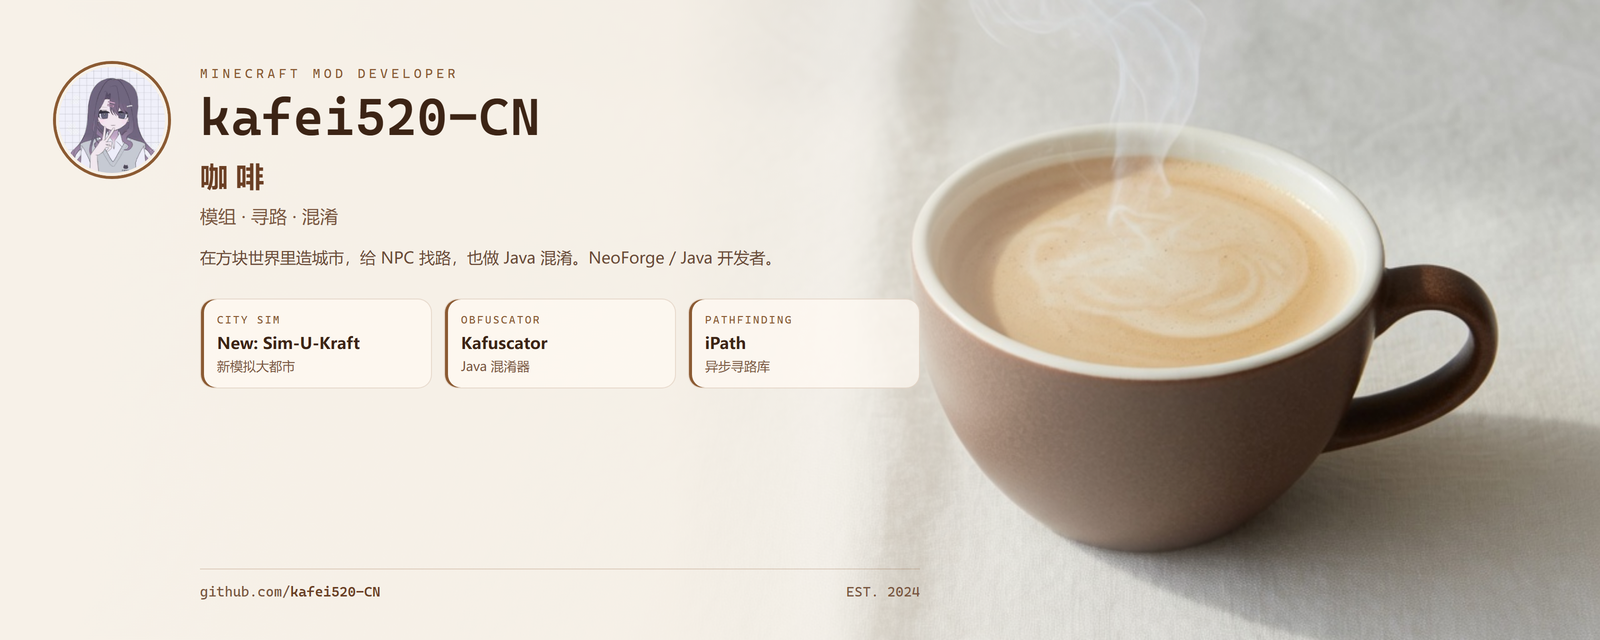
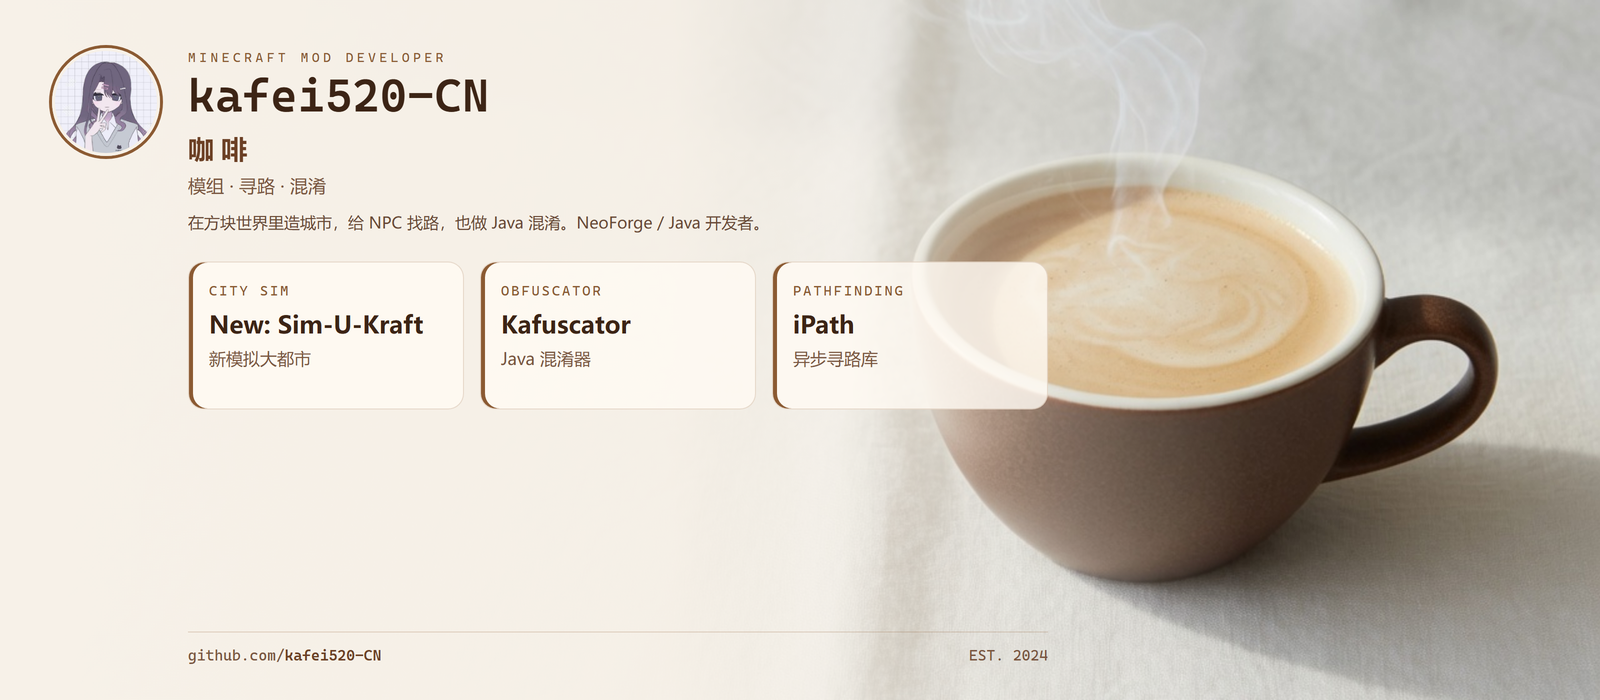
Add initial HTML structure for kafei520-CN profile card
- Create card.html with a responsive layout
- Include custom fonts and styles for a personalized design
- Add sections for avatar, title, role, and project highlights
- Implement background image and gradient overlay for visual appeal

diff --git a/card.html b/card.html
@@ -1,0 +1,221 @@
+<!doctype html>
+<html lang="zh-CN">
+<head>
+  <meta charset="utf-8">
+  <title>kafei520-CN</title>
+  <style>
+    @font-face {
+      font-family: "Cascadia";
+      src: local("Cascadia Code"), local("Cascadia Mono"), url("C:/Windows/Fonts/CascadiaCode.ttf") format("truetype");
+    }
+    @font-face {
+      font-family: "YaHei";
+      src: local("Microsoft YaHei"), url("C:/Windows/Fonts/msyh.ttc") format("truetype");
+    }
+    @font-face {
+      font-family: "YaHeiBold";
+      src: local("Microsoft YaHei Bold"), url("C:/Windows/Fonts/msyhbd.ttc") format("truetype");
+    }
+
+    * { box-sizing: border-box; margin: 0; padding: 0; }
+
+    html, body {
+      width: 1600px;
+      height: 700px;
+      overflow: hidden;
+      background: #f7f1e8;
+      color: #3c2415;
+      font-family: "YaHei", "Segoe UI", sans-serif;
+    }
+
+    .stage {
+      position: relative;
+      width: 1600px;
+      height: 700px;
+      overflow: hidden;
+      background: #f7f1e8;
+    }
+
+    .bg {
+      position: absolute;
+      inset: 0;
+      width: 100%;
+      height: 100%;
+      object-fit: cover;
+      object-position: 100% 50%;
+    }
+
+    .wash {
+      position: absolute;
+      inset: 0;
+      background: linear-gradient(
+        90deg,
+        #f7f1e8 0%,
+        rgba(247, 241, 232, 0.94) 42%,
+        rgba(247, 241, 232, 0.35) 62%,
+        rgba(247, 241, 232, 0) 78%
+      );
+    }
+
+    .content {
+      position: relative;
+      z-index: 2;
+      display: flex;
+      gap: 28px;
+      padding: 48px 52px 40px;
+      width: 1040px;
+      height: 700px;
+    }
+
+    .avatar {
+      width: 108px;
+      height: 108px;
+      border-radius: 50%;
+      object-fit: cover;
+      border: 3px solid #f7f1e8;
+      box-shadow: 0 0 0 3px #8b5a32;
+      flex-shrink: 0;
+    }
+
+    .main { padding-top: 2px; }
+
+    .kicker {
+      font-family: "Cascadia", "Consolas", monospace;
+      font-size: 13px;
+      letter-spacing: 0.28em;
+      color: #8b5a32;
+      text-transform: uppercase;
+    }
+
+    h1 {
+      margin-top: 8px;
+      font-family: "Cascadia", "Consolas", monospace;
+      font-size: 46px;
+      font-weight: 600;
+      letter-spacing: 0.01em;
+      line-height: 1;
+      color: #3c2415;
+    }
+
+    .aka {
+      margin-top: 12px;
+      font-family: "YaHeiBold", "YaHei", sans-serif;
+      font-size: 26px;
+      color: #6b3f24;
+      letter-spacing: 0.28em;
+    }
+
+    .role {
+      margin-top: 8px;
+      font-size: 18px;
+      color: #7a5640;
+    }
+
+    .blurb {
+      margin-top: 12px;
+      max-width: 680px;
+      font-size: 16px;
+      line-height: 1.65;
+      color: #6a4a36;
+    }
+
+    .projects {
+      display: grid;
+      grid-template-columns: repeat(3, 1fr);
+      gap: 16px;
+      margin-top: 26px;
+      width: 860px;
+    }
+
+    .proj {
+      padding: 20px 20px 18px;
+      border-radius: 16px;
+      background: rgba(255, 250, 243, 0.82);
+      border: 1px solid rgba(139, 90, 50, 0.2);
+      box-shadow: inset 4px 0 0 #8b5a32;
+      min-height: 148px;
+    }
+
+    .proj .tag {
+      font-family: "Cascadia", "Consolas", monospace;
+      font-size: 14px;
+      letter-spacing: 0.14em;
+      color: #8b5a32;
+    }
+
+    .proj strong {
+      display: block;
+      margin-top: 10px;
+      font-family: "YaHeiBold", "YaHei", sans-serif;
+      font-size: 24px;
+      line-height: 1.25;
+      color: #3c2415;
+    }
+
+    .proj em {
+      display: block;
+      margin-top: 8px;
+      font-style: normal;
+      font-size: 17px;
+      color: #7a5640;
+    }
+
+    .foot {
+      position: absolute;
+      left: 188px;
+      bottom: 36px;
+      display: flex;
+      justify-content: space-between;
+      align-items: center;
+      width: 860px;
+      padding-top: 14px;
+      border-top: 1px solid rgba(139, 90, 50, 0.22);
+      font-family: "Cascadia", "Consolas", monospace;
+      font-size: 15px;
+      color: #7a5640;
+    }
+
+    .foot b { color: #6b3f24; font-weight: 600; }
+  </style>
+</head>
+<body>
+  <div class="stage">
+    <img class="bg" src="assets/cup-wide.jpg" alt="">
+    <div class="wash"></div>
+
+    <div class="content">
+      <img class="avatar" src="assets/avatar.jpg" alt="kafei520-CN">
+      <div class="main">
+        <div class="kicker">Minecraft Mod Developer</div>
+        <h1>kafei520-CN</h1>
+        <div class="aka">咖啡</div>
+        <div class="role">模组 · 寻路 · 混淆</div>
+        <p class="blurb">在方块世界里造城市，给 NPC 找路，也做 Java 混淆。NeoForge / Java 开发者。</p>
+
+        <div class="projects">
+          <div class="proj">
+            <div class="tag">CITY SIM</div>
+            <strong>New: Sim-U-Kraft</strong>
+            <em>新模拟大都市</em>
+          </div>
+          <div class="proj">
+            <div class="tag">OBFUSCATOR</div>
+            <strong>Kafuscator</strong>
+            <em>Java 混淆器</em>
+          </div>
+          <div class="proj">
+            <div class="tag">PATHFINDING</div>
+            <strong>iPath</strong>
+            <em>异步寻路库</em>
+          </div>
+        </div>
+      </div>
+    </div>
+
+    <div class="foot">
+      <span>github.com/<b>kafei520-CN</b></span>
+      <span>EST. 2024</span>
+    </div>
+  </div>
+</body>
+</html>
